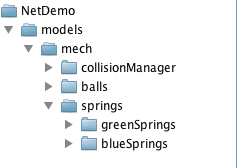
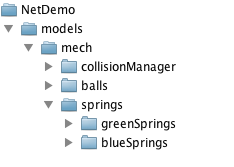
tweaks to modelguide
git-svn-id: https://svn.artisynth.org/svn/artisynth_core@167 7661e47b-f193-4b25-995f-cdbae50cbfef

diff --git a/trunk/doc/modelguide/mechanicalModelsII.tex b/trunk/doc/modelguide/mechanicalModelsII.tex
@@ -890,7 +890,7 @@ by default because they are empty.
 \iflatexml
  \includegraphics[]{images/NetDemoNav}
 \else
- \includegraphics[width=2.5in]{images/NetDemoNav}
+ \includegraphics[width=2.25in]{images/NetDemoNav}
 \fi
 \end{center}
 \caption{NetDemo components displayed in the ArtiSynth navigation panel.}
